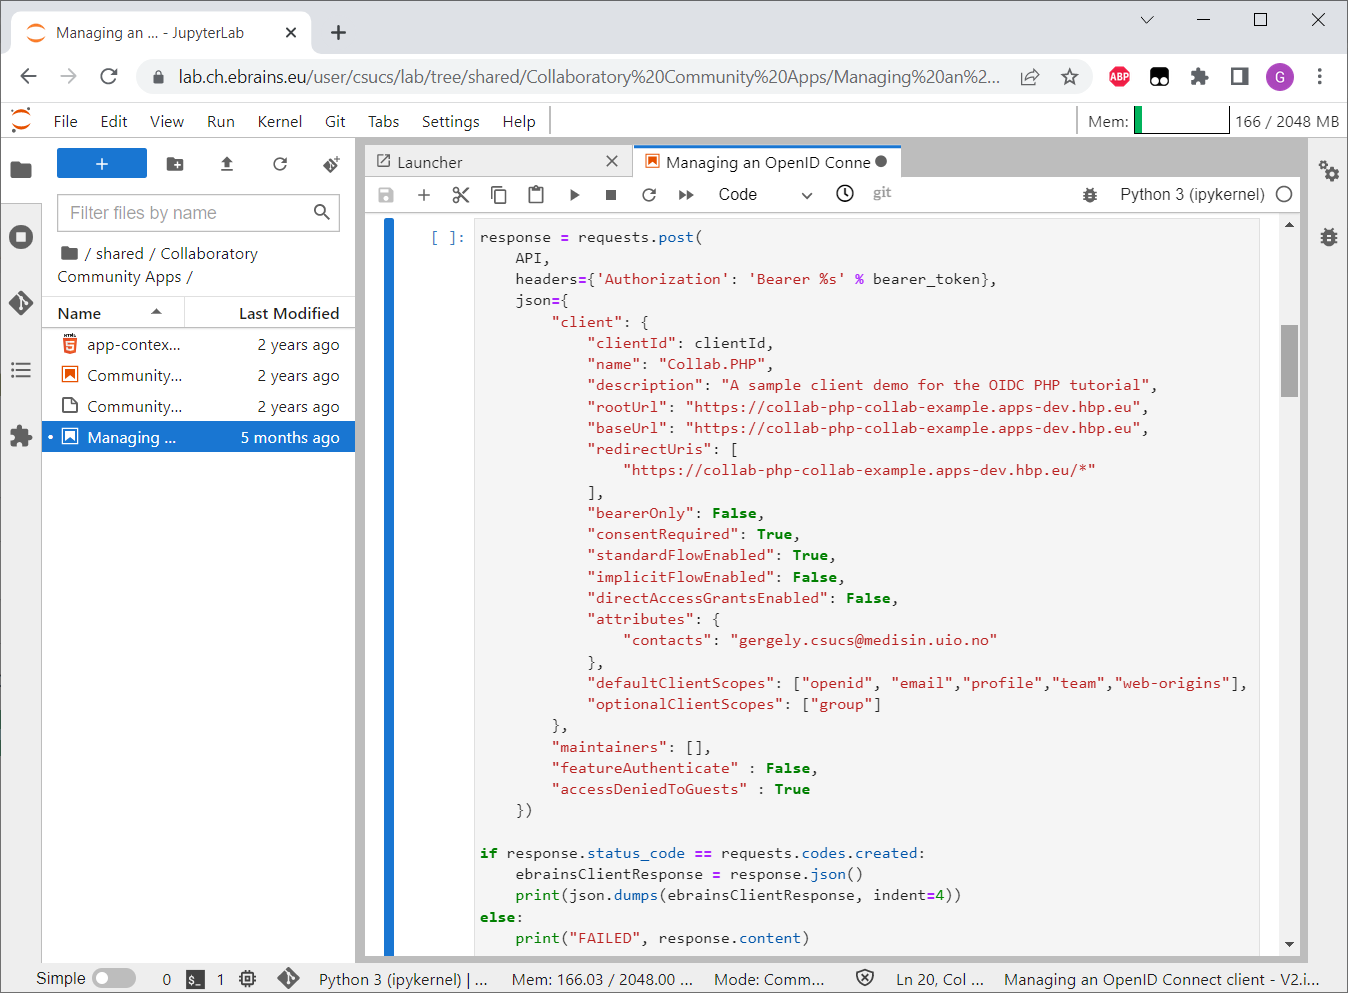
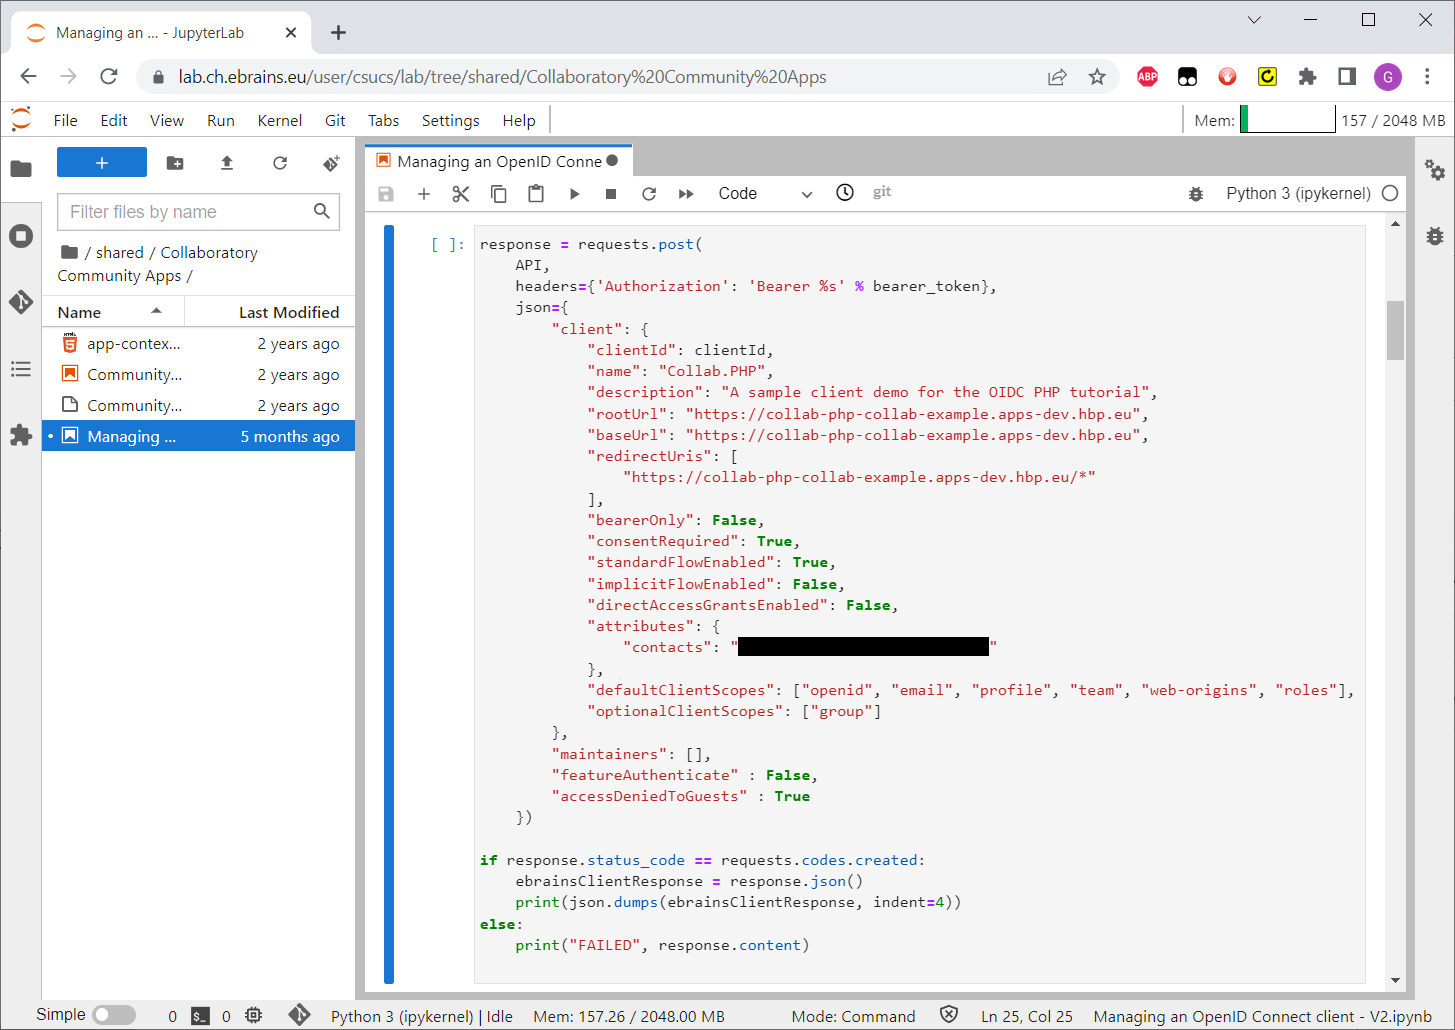
Example code

diff --git a/README.md b/README.md
@@ -53,21 +53,22 @@ These are standard steps for any contemporary app, including the need for HTTPS.
 
 After a bit of time the app becomes available as `http://<application name>-<project name>.apps-dev.hbp.eu`. `http://collab-php-collab-example.apps-dev.hbp.eu/` with these particular settings. It can be checked with some ad-hoc parameters, like `http://collab-php-collab-example.apps-dev.hbp.eu/?a=b&c=d`.
 
-#### 2.2.2. Secure route
-Collab is on HTTPS, so collab apps have to be on HTTPS too.
+#### 2.2.2. Secure the route
+Collab is on `HTTPS`, so collab apps have to be on `HTTPS` too.
 1. Just to be on the same page, literally, go back to the catalog page, either via clicking on the "OKD" logo in the top-left corner, or just navigating to https://okd-dev.hbp.eu/ directly. Then click on the project on the right, under "My Projects", it's `collab-example` for this tutorial
 2. "Applications"/"Routes" on the left, then click on the "Name" (first column) of the route (which matches with the name of the application, `collab-php` for me)
 3. "Actions"/"Edit" on the top-right
 4. Mark "Secure route" under "Security"
 5. "Save" (it's on the very bottom of the page)
 
-Suddenly the app is on HTTPS, one can click on the link from the page directly. Some ad-hoc URL parameters can be added too. As indicated earlier, this version of the page is preserved under a different name, can be tested as https://collab-php-collab-example.apps-dev.hbp.eu/index_start.html?testfield=test&something=else  
-The app is ready for testing in collab environment.
+Suddenly the app is on `HTTPS`, one can click on the link from the page directly. Some ad-hoc URL parameters can be added too. As indicated earlier, this version of the page is preserved under a different name, can be tested as https://collab-php-collab-example.apps-dev.hbp.eu/index_start.html?testfield=test&something=else  
+The app is now ready for testing in collab environment (without OIDC, of course).
 
 ### 2.3. Collab app
 1. Log in to https://wiki.ebrains.eu
 2. Click on "Collabs" on the top, then open any of the tiny down arrows on the left (next to the small green house icon or the "Collabs" text), and click on "Apps". Or just open the page directly: https://wiki.ebrains.eu/bin/view/Apps/  
-3. Click on "+ Create App"![](images/03-Apps.png)
+3. Click on "+ Create App"  
+![](images/03-Apps.png)
 4. Give a "Title" to the app, this is actually its name. `Collab.PHP` in this tutorial
 5. On the right side the "Community App" template should be selected already
 6. Click on "Create" on the bottom-left
@@ -103,7 +104,23 @@ The app should be running, it displays the collection of collab parameters. For 
         "clb-drive-id": "22e48dab-7f9a-4fe4-a5bb-66e26d9e6565"
     }
 From storage point of view `clb-collab-id` is used for accessing the Bucket, and `clb-drive-id` is used for accessing the Drive.  
-Direct link: https://wiki.ebrains.eu/bin/view/Collabs/collab-php/Example%20App (but it will show the final example).
+Direct link: https://wiki.ebrains.eu/bin/view/Collabs/collab-php/Example%20Start (`Example App` would show the final version).
+
+#### 2.4.3. Hide the app
+Having the app installed in a test collab, this is the point where one can hide an "Under development" app if they want to.
+1. Navigate to the "Apps" page as described in 2.3. (or use the direct link https://wiki.ebrains.eu/bin/view/Apps/)  
+![](images/03-Apps.png)
+2a. If the app has a green "Edit" button below it, simply click on that one
+2b. If the app has no "Edit" button:
+    1. Open one of the tiny gray down arrows again
+    2. This time "Apps" will have a sub-tree, listing absolutely every single app
+    3. Open your app
+    4. Click on the "Edit" button on its page (gray, in the top-right button group)
+3. Now the app can be marked "Under development", removing it from the list of selectable application
+4. Press "Save & View" (or just "Save").
+
+In case of this tutorial, a `Collab.PHP Start` app has been created for checking the current phase of the example, and that one is hidden.
+The final app, `Collab.PHP` remains available for "installation". When listing apps under the gray arrows both are expected to be listed.
 
 ## 3. Full app, with OIDC
 ### 3.1. OIDC registration
@@ -122,8 +139,8 @@ And this is what you can click: https://lab.ch.ebrains.eu/hub/user-redirect/lab/
     * `rootUrl` and `baseUrl` are the url of the actual client, `https://collab-php-collab-example.apps-dev.hbp.eu` in this tutorial
     * `redirectUris` can use a wildcard or the actual name of the PHP file. For the tutorial it's the former, `https://collab-php-collab-example.apps-dev.hbp.eu/*` (the `*` could be `token.php`, a file created in a later step)
     * provide `contacts`, semicolon-separated list of email addresses
-    * scopes: move `profile` and `team` to `defaultClientScopes`, apps can't really work without them. Also add `"web-origins"`, so the two lines are  
-    `"defaultClientScopes": ["openid", "email","profile","team","web-origins"],`  
+    * scopes: move `profile` and `team` to `defaultClientScopes`, apps can't really work without them. Also add `"web-origins"` and `"roles"`, so the two lines are  
+    `"defaultClientScopes": ["openid", "email", "profile", "team", "web-origins", "roles"],`  
     `"optionalClientScopes": ["group"]`
     * provide `maintainers`, they're user names. The list can be left empty, a separate `owner` field will be generated anyway (for the user who does the registration)  
     ![](images/04-Register.png)
@@ -132,6 +149,12 @@ And this is what you can click: https://lab.ch.ebrains.eu/hub/user-redirect/lab/
 11. If this file gets lost for any reason, the next runnable cell (under "4. Fetching your OIDC client settings") shows how to get it back. In such case fill in and run the `clientId` cell, run the `bearer_token`, skip the actual registration, and run this cell instead. The only thing what will be missing is the `registrationAccessToken` line, that one is shown at registration only
 12. Most fields will be familiar, they contain the details which were sent in a moment ago. The field we actually need is the `secret`. This piece of text will be used in the code-token exchange  
 ![](images/05-Secret.png)
+
+#### 3.1.1. Proper closing of the JupyterLab environment
+It's a computing resource, running in a virtual machine somewhere at a supercomputing center, and clicking away doesn't actually stop it.
+1. Open the "Kernel" menu from the menubar, and click on "Shut Down All Kernels...". Click on "Shut Down All" to confirm the action
+2. Open the "File" menu from the menubar, and click on "Log Out". It's the last item of the menu, depending on display settings one may even have to scroll down to reach it. Click on "Leave" to confirm the action
+3. Now the window/tab can be closed or used for other purposes.
 
 ### 3.2. Finalizing index.html
 Instead of displaying collab arguments, `index.html` will forward users to the EBrains IAM (Identity and Access Management) service. The arguments will be kept in the `state` url parameter which the application will get back after this pass.  
@@ -287,6 +310,9 @@ Having the final code on GitHub, the deployment on OKD has to be refreshed.
 3. open the "..." menu of the app again (on the far right), and select "Start Build" this time
 4. wait until building and deployment completes
 
-When creating a brand new collab (2.4.1.), the bucket is not initialized yet, so visit the collab from https://wiki.ebrains.eu/bin/view/Collabs/ (if it's favourited, use the checkbox to find it faster), click on "Bucket" on the left, and go with the "Create empty bucket" option.
+When creating a brand new collab (2.4.1.), the bucket is not initialized yet, so visit the collab from https://wiki.ebrains.eu/bin/view/Collabs/ (if it's favourited, use the checkbox to find it faster), click on "Bucket" on the left, and go with the "Create empty bucket" option.  
+![](images/07-Bucket.png)
 
-Now you can click on the app page and it may work. When running an OIDC app the first time ever, it will ask the user to grant permissions, this is normal.
+Now you can click on the app page and it may work. When running an OIDC app the first time ever, it will ask the user to grant permissions, this is normal. Storing stuff in the bucket takes a bit of time, pressing "Load" immediately after "Save" may not work at all, or load old content.
+
+The example collab is live and openly accessible at https://wiki.ebrains.eu/bin/view/Collabs/collab-php/Example%20App - most probably you have no write access there, so only loading will work, the message stored in `hello.txt` is `Hello World!`. The file itself is accessible (downloadable) via the "Bucket" interface too.
